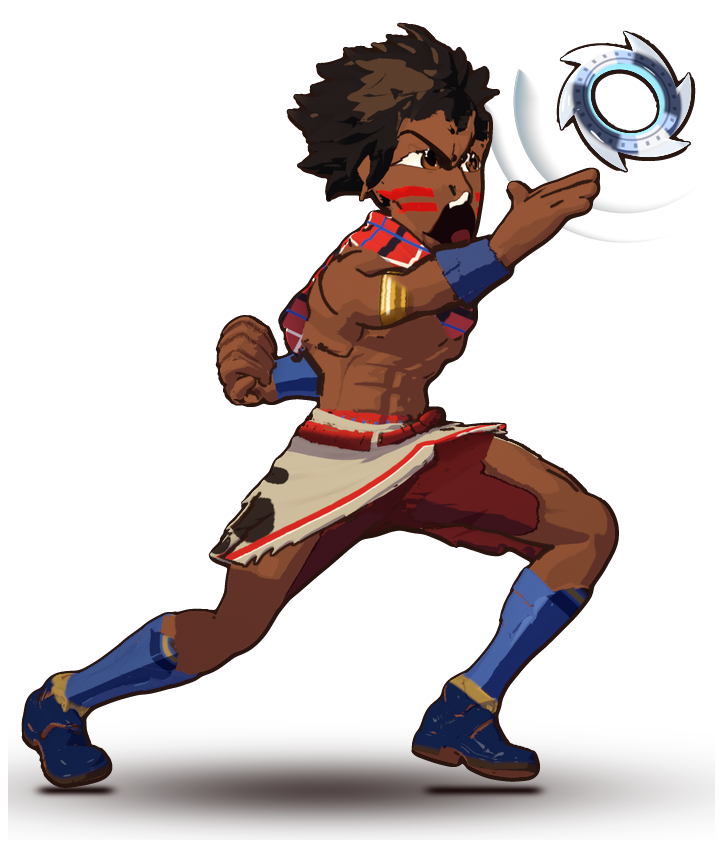
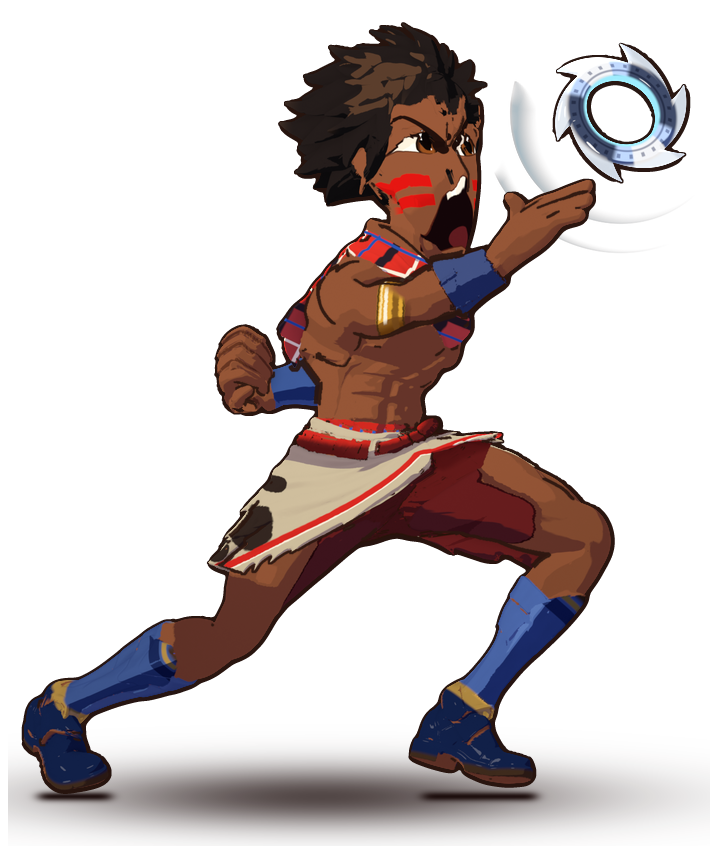
Hero key art k52 (won its A/B against k50 with both blind judges, by toss-ups): the sun slides left so clear sky separates it from the hair, and the chakram's spin arcs fade out before they reach the back of the head, removing two tangents at the focal point. The neck bone is longer, the top of the 

diff --git a/New/tools/art/blender/hero_render.py b/New/tools/art/blender/hero_render.py
@@ -942,6 +942,10 @@ THROW_RING = float(os.environ.get("THROW_RING", "0.19"))  ## (key art k10: 0.14,
 ## keeps it inside its left two fifths, where the close-ups are cut)
 
 
+## (key art k51, judge 2 of k50: "no neck, the jaw sits directly on the red plaid shawl: a bobblehead") a short neck column
+NECK_LEN = float(os.environ.get("NECK_LEN", "1.75"))  ## the neck bone's length scale (k31-k50: 1.3): his head rises clear of the shawl
+NECK_COLLAR_Z = float(os.environ.get("NECK_COLLAR_Z", "0.315"))  ## (rest height) the shawl's collar above this is his neck and
+## trapezius in the title screen (the shawl sits lower); 1: off
 KEY_BUILD = {  # (key art k9, "a stringy, narrow torso and thin upper arms against heavy thighs and big boots") the key
     # art's build: bone scales across the bone (x, z; y runs along it), the children not inheriting them
     # (key art k31, "narrow shoulders barely wider than the head plus hair, a short narrow torso, a pinched waist, very long
@@ -950,7 +954,7 @@ KEY_BUILD = {  # (key art k9, "a stringy, narrow torso and thin upper arms again
     # longer (the throwing side's thicker too: on the fist side a thicker one pushed a jagged edge into the silhouette),
     # thicker forearms; the hands, head, pose and costume unchanged
     # (k9-k30: "Spine1": (1.12, 1.0, 1.05), "Spine2": (1.26, 1.0, 1.1), "Neck": (1.18, 1.0, 1.18), forearms (1.1, 1.0, 1.1))
-    "Spine": (1.15, 1.06, 1.08), "Spine1": (1.35, 1.06, 1.18), "Spine2": (1.5, 1.06, 1.25), "Neck": (1.5, 1.3, 1.4),
+    "Spine": (1.15, 1.06, 1.08), "Spine1": (1.35, 1.06, 1.18), "Spine2": (1.5, 1.06, 1.25), "Neck": (1.5, NECK_LEN, 1.4),
     "LeftShoulder": (1.0, 1.35, 1.0), "RightShoulder": (1.25, 1.6, 1.25),
     # (key art k32, "the armlet a flat vertical gold rectangle stuck on the bicep like a plaster": the upper arms back to their own
     # thickness (k31 1.2), which keeps k27's curved band; the forearms a little thicker than k27's (k31 1.32: swollen against them))
@@ -1078,11 +1082,47 @@ ARM_ANGLE = float(os.environ.get("ARM_ANGLE", "15.5")) if os.environ.get("ARM_AN
 ## throwing arm rises in the picture after the lean (k48: about 12)
 BACK_ANGLE = float(os.environ.get("BACK_ANGLE", "210")) if os.environ.get("BACK_ANGLE", "210") != "off" else None  ## (k50)
 ## the back arm's angle in the picture, shoulder to fist (k49 swung it up behind his head: "the back fist crowds the hair")
+## (key art k51, both judges of k50) the release: judge 2 "the palm turned up reads as a waiter carrying a tray, catching not
+## throwing: rotate the palm forward and down, fingers spread toward the target, a release follow-through"; judge 1 "the
+## chakram floats away from an open flat palm: put it at the fingertips with a motion arc" (the smear: tools/art/hero_atlas.py)
+RELEASE_ROLL = float(os.environ.get("RELEASE_ROLL", "0"))  ## degrees the throwing hand rolls round its own length (its open
+## palm from up to forward and down; the hand's shape unchanged); 0: k50 (k51 60: "a huge splayed paw, a stop gesture", lost)
+## (k52: with k50's palm-up hand the ring at 0.13 m from the fingertips looked held up on the palm: RING_GAP back to k50's 0.19
+## (from the hand's end) and no smear)
+RELEASE_FLEX = float(os.environ.get("RELEASE_FLEX", "0"))  ## and its wrist flicks down toward the throw (round the view axis)
+## (key art k52, both judges of k51 on k50: "the head pushed forward and down into the shawl, the neck disappears, the chin
+## buried"; "keep the lean in the spine and lift the chin so the face reads in three-quarter view"; judge 1: "the raised
+## throwing upper arm runs right under the jaw: chin, open mouth and arm one knot") his head pitched up round its own
+## side-to-side axis, the face to three-quarters, a skin column between the jaw and the shawl
+CHIN_LIFT = float(os.environ.get("CHIN_LIFT", "-12"))  ## degrees round the head's local x (negative lifts the chin here; 0: k50/k51)
+RING_GAP = float(os.environ.get("RING_GAP", "0.19"))  ## metres the ring has flown from his fingertips (k10-k50: 0.19 from the hand)
 ARM_KEEP = os.environ.get("ARM_KEEP", "1") == "1"  ## (k50) the throwing arm keeps its k48 orientation through the lean
 PUSH_SLIDE = float(os.environ.get("PUSH_SLIDE", "0.044"))  ## (k50) at most this far (metres) the back foot slides back (k49
 ## 0.087: "a stiff fencing lunge, the feet very far apart")
 PUSH_EXT = float(os.environ.get("PUSH_EXT", "0.95"))  ## the back leg's reach, a share of its length (a straight push-off)
 PUSH_HEEL = float(os.environ.get("PUSH_HEEL", "0.72"))  ## and its heel's lift (k48: 0.55)
+
+
+def _roll(bone, deg):
+    """Rolls a bone round its own length (the axis along it, not a world one); its children with it."""
+    pb = ARM.pose.bones[P + bone]
+    m = pb.matrix.copy()
+    r = Matrix.Rotation(math.radians(deg), 3, m.to_3x3().col[1].normalized())
+    new = (r @ m.to_3x3()).to_4x4()
+    new.translation = m.translation
+    pb.matrix = new
+    bpy.context.view_layer.update()
+
+
+def _pitch(bone, deg):
+    """Turns a bone round its own side-to-side axis (its local x), its children with it."""
+    pb = ARM.pose.bones[P + bone]
+    m = pb.matrix.copy()
+    r = Matrix.Rotation(math.radians(deg), 3, m.to_3x3().col[0].normalized())
+    new = (r @ m.to_3x3()).to_4x4()
+    new.translation = m.translation
+    pb.matrix = new
+    bpy.context.view_layer.update()
 
 
 def _push_off(side, ext, k, slide=1.0):
@@ -1174,6 +1214,12 @@ def pose_key_throw():
             now = now - 360.0 if now > 180.0 else now
             turn("RightArm", ARM_ANGLE - now, tuple(view))
             print("KEY_ARM rose %.1f -> %.1f deg" % (now, ARM_ANGLE))
+        if CHIN_LIFT:  # (k52) the chin lifted out of the shawl: the face to three-quarters
+            _pitch("Head", CHIN_LIFT)
+        if RELEASE_ROLL:  # (k51) the open palm turned forward and down, the wrist flicked toward the throw
+            _roll("RightHand", RELEASE_ROLL)
+        if RELEASE_FLEX:
+            turn("RightHand", RELEASE_FLEX, tuple(view))
         if BACK_ANGLE is not None:  # (k50) the back fist low and behind his chest, clear of his hair and face: its arm
             # turned round the view axis to BACK_ANGLE in the picture (180: straight back, more: lower)
             now = ang("LeftArm", "LeftHand")
@@ -1183,7 +1229,11 @@ def pose_key_throw():
     ring = bpy.data.objects.get("AAA_Chakram")
     if ring is not None:  # the ring well ahead of the hand on the throw's line
         fore = (bone_world("RightHand", "tail") - bone_world("RightForeArm")).normalized()
-        at = bone_world("RightHand", "tail") + (fore * 0.8 + Vector((0.0, 0.0, 0.45))).normalized() * THROW_RING
+        tips = bone_world("RightHandMiddle4") if (P + "RightHandMiddle4") in ARM.pose.bones else bone_world("RightHand", "tail")
+        if RING_GAP < THROW_RING:  # (k51) the ring just off his fingertips, on the throw's line
+            at = tips + (fore * 0.8 + Vector((0.0, 0.0, 0.45))).normalized() * RING_GAP
+        else:
+            at = bone_world("RightHand", "tail") + (fore * 0.8 + Vector((0.0, 0.0, 0.45))).normalized() * THROW_RING
         # (round 16) its blades turned to us (edge-on it read as a thin ring), tipped a little up the throw
         face = Vector((0.3, -1.0, 0.35)).normalized()
         rot = Vector((0.0, 0.0, 1.0)).rotation_difference(face).to_matrix().to_4x4()
@@ -1194,6 +1244,7 @@ def pose_key_throw():
     key_hair_normals()
     key_fringe()
     key_strip()
+    key_neck()
     key_blue_normals()
 
 
@@ -2454,7 +2505,8 @@ def toon_setup():
 # ------------------------------------------------------------------ render
 
 POINTS = {"hips": ("Hips", "head"), "head": ("HeadTop_End", "head"), "toe_r": ("RightToe_End", "head"),
-          "toe_l": ("LeftToe_End", "head"), "hand_r": ("RightHand", "head"), "hand_l": ("LeftHand", "head")}
+          "toe_l": ("LeftToe_End", "head"), "hand_r": ("RightHand", "head"), "hand_l": ("LeftHand", "head"),
+          "tips_r": ("RightHandMiddle4", "head")}  ## (key art k51: where the release smear starts)
 
 
 def points(cam):
@@ -2798,6 +2850,32 @@ def key_blue_normals():
         me.update()
         print("KEY_BLUE", ob.name, int(on.sum()))
     bpy.context.view_layer.update()
+
+
+def key_neck():
+    """(Key art k51, judge 2 of k50: "no neck, the jaw sits directly on the red plaid shawl: a bobblehead") the shawl's collar
+    round his neck and over his trapezius (above NECK_COLLAR_Z, rest) is his skin in the title screen, so a neck column and the
+    trapezius slope show above the cloth: the shawl sits lower. Undone after the picture; the user's file unchanged."""
+    if not (AAA and arg("--light", "day") == "sunset") or NECK_COLLAR_Z >= 1.0:
+        return
+    me = MESH.data
+    names = [m.name if m else "" for m in me.materials]
+    if "AAA_scarf" not in names or "AAA_skin" not in names:
+        return
+    n = len(me.vertices)
+    mi = np.zeros(len(me.polygons), np.int64); me.polygons.foreach_get("material_index", mi)
+    lt = np.zeros(len(me.polygons), np.int64); me.polygons.foreach_get("loop_total", lt)
+    ls = np.zeros(len(me.polygons), np.int64); me.polygons.foreach_get("loop_start", ls)
+    lv = np.zeros(len(me.loops), np.int64); me.loops.foreach_get("vertex_index", lv)
+    rc = np.zeros(n * 3, np.float32); me.attributes["rest_co"].data.foreach_get("vector", rc); rc = rc.reshape(-1, 3)
+    cen = np.add.reduceat(rc[lv], ls) / lt[:, None]
+    sel = np.nonzero((mi == names.index("AAA_scarf")) & (cen[:, 2] > NECK_COLLAR_Z))[0]
+    _FRINGE_UNDO.append((sel, mi[sel].copy()))
+    mi[sel] = names.index("AAA_skin")
+    me.polygons.foreach_set("material_index", mi)
+    me.update()
+    bpy.context.view_layer.update()
+    print("KEY_NECK", len(sel), "polygons of collar to skin")
 
 
 def key_fringe_undo():

diff --git a/New/tools/art/hero_atlas.py b/New/tools/art/hero_atlas.py
@@ -454,6 +454,10 @@ def throw_trail(folder: Path) -> np.ndarray:
     return out
 
 
+ARC_HAIR_CLEAR = float(os.environ.get("ARC_HAIR_CLEAR", "45"))  ## (key art k52, judge 1 of k50: "the chakram's motion arcs touch the
+## back of the hair") render px the spin arcs keep clear of his hair (they fade out before it); 0: k10-k51
+
+
 def swoosh_trail(folder: Path) -> np.ndarray:
     """(Key art k9, "a flat translucent cyan shard: a rendering glitch") the throw's trail as two spin arcs hugging the
     ring's trailing side: each a curved, tapered stroke, its outer (leading) edge a crisp white-hot line, the light
@@ -467,6 +471,12 @@ def swoosh_trail(folder: Path) -> np.ndarray:
     back = np.arctan2(-d[1], -d[0])  # the side it came from
     h, w = src.shape[:2]
     out = np.zeros((h, w, 4), np.float32)
+    hair_clear = None
+    dp = folder / "000_depth.npz"
+    if ARC_HAIR_CLEAR > 0 and dp.exists():  # (key art k52) a fade to nothing within ARC_HAIR_CLEAR px of his hair
+        hair = np.load(dp)["id"] == 1
+        dist = ndimage.distance_transform_edt(~hair)
+        hair_clear = np.clip((dist - ARC_HAIR_CLEAR) / (ARC_HAIR_CLEAR * 0.5), 0.0, 1.0).astype(np.float32)
     for rk, wk, span, ak in ((1.28, 0.36, 150.0, 1.0), (1.62, 0.2, 110.0, 0.8)):
         th = np.radians(np.linspace(-span * 0.55, span * 0.45, 500)) + back  # tail (k 0) to head (k 1)
         curve = centre + rk * radius * np.stack([np.cos(th), np.sin(th)], -1)
@@ -493,11 +503,77 @@ def swoosh_trail(folder: Path) -> np.ndarray:
         a = np.maximum(a * 0.72, edge * 0.98).reshape(yy.shape) * ak
         hot = edge.reshape(yy.shape)
         a *= np.clip((np.hypot(xx - centre[0], yy - centre[1]) - radius * 0.98) / 3.0, 0.0, 1.0)
+        if hair_clear is not None:  # (key art k52) the arcs off his hair: "the motion arcs touch the back of the hair"
+            a *= hair_clear[y0:y1, x0:x1]
         rgb = TRAIL + (np.array([0.95, 0.99, 1.0]) - TRAIL) * np.clip(hot * 1.2, 0, 1)[..., None]
         old = out[y0:y1, x0:x1]
         al = a + old[..., 3] * (1.0 - a)
         old[..., :3] = (rgb * a[..., None] + old[..., :3] * old[..., 3:4] * (1.0 - a[..., None])) / np.maximum(al, 1e-4)[..., None]
         old[..., 3] = al
+    return out
+
+
+## (key art k51, judge 1 of k50: "the chakram floats away from an open flat palm: put it at the fingertips with a motion arc")
+## a thin tapered smear from his fingertips to the ring, along a shallow arc: faint and hair-thin at the fingers, a little
+## wider and stronger where it meets the ring; a pale cool tint well under the face's value (never a glow)
+SMEAR_ALPHA = float(os.environ.get("SMEAR_ALPHA", "0"))  ## its strongest opacity (0: none, k50 and k52; k51 0.38)
+SMEAR_W = (1.5, 9.0)  ## render px half-width at the fingertips and at the ring
+SMEAR_BOW = 0.06  ## how far the arc bows up, a share of its length
+SMEAR_RGB = np.array([0.98, 0.93, 0.84])  ## (a pale warm cream, under the alpha: a little lighter than the sky, never a glow)
+
+
+def release_smear(folder: Path) -> np.ndarray:
+    src = np.asarray(Image.open(folder / "000.png"))
+    h, w = src.shape[:2]
+    out = np.zeros((h, w, 4), np.float32)
+    frame = json.loads((folder / "points.json").read_text())["frames"][0]
+    if SMEAR_ALPHA <= 0.0 or "tips_r" not in frame:
+        return out
+    from scipy.spatial import cKDTree
+    tips = np.array(frame["tips_r"], np.float64)
+    centre, radius, _ = _ring(folder)
+    dp = folder / "000_depth.npz"
+    if dp.exists():  # (the fingertip as drawn: the body's pixel near his hand closest to the ring)
+        z = np.load(dp)
+        body = z["a"] & (z["id"] == 0)
+        ys_, xs_ = np.nonzero(body)
+        near = np.hypot(xs_ - tips[0], ys_ - tips[1]) < h * 0.08
+        if near.any():
+            dd = np.hypot(xs_[near] - centre[0], ys_[near] - centre[1])
+            j = int(np.argmin(dd))
+            tips = np.array([xs_[near][j], ys_[near][j]], np.float64)
+    d = centre - tips
+    ln = np.hypot(*d)
+    end = centre - d / max(ln, 1e-6) * radius * 0.9  # (to the ring's rim, not its hole)
+    mid = (tips + end) / 2.0 + np.array([d[1], -d[0]]) / max(ln, 1e-6) * ln * SMEAR_BOW * (1 if d[0] >= 0 else -1)
+    t = np.linspace(0.0, 1.0, 400)[:, None]
+    curve = (1 - t) ** 2 * tips + 2 * (1 - t) * t * mid + t ** 2 * end
+    lo = np.floor(curve.min(0) - SMEAR_W[1] - 3).astype(int).clip(0)
+    hi = np.ceil(curve.max(0) + SMEAR_W[1] + 3).astype(int)
+    x0, y0 = lo
+    x1, y1 = min(hi[0], w), min(hi[1], h)
+    yy, xx = np.mgrid[y0:y1, x0:x1]
+    pix = np.stack([xx.ravel(), yy.ravel()], -1).astype(np.float64)
+    dist, i = cKDTree(curve).query(pix)
+    k = i / (len(curve) - 1)
+    width = SMEAR_W[0] + (SMEAR_W[1] - SMEAR_W[0]) * k
+    across = np.clip((width + 1.0 - dist) / 2.0, 0.0, 1.0)  # (crisp, a pixel of softening)
+    along = np.clip(k / 0.15, 0.0, 1.0) * (0.35 + 0.65 * k)  # (from nothing at the fingers to its strongest at the ring)
+    a = (across * along * SMEAR_ALPHA).reshape(yy.shape)
+    a *= np.clip((np.hypot(xx - centre[0], yy - centre[1]) - radius * 0.98) / 3.0, 0.0, 1.0)  # (never over the ring)
+    out[y0:y1, x0:x1, :3] = SMEAR_RGB
+    out[y0:y1, x0:x1, 3] = a
+    return out
+
+
+def menu_trail(folder: Path) -> np.ndarray:
+    """The throw's trail under the menu's hero: the spin arcs round the ring, and (k51) the release smear."""
+    out = swoosh_trail(folder)
+    sm = release_smear(folder)
+    a = sm[..., 3:4]
+    al = a[..., 0] + out[..., 3] * (1.0 - a[..., 0])
+    out[..., :3] = (sm[..., :3] * a + out[..., :3] * out[..., 3:4] * (1.0 - a)) / np.maximum(al, 1e-4)[..., None]
+    out[..., 3] = al
     return out
 
 
@@ -609,7 +685,7 @@ def pictures() -> None:
     # a wide pose: as many pixels as an upright one, its ink drawn at that size (round 11: reduced after inking,
     # the line went soft and uneven)
     k = min((MENU_PIXELS / (hero.shape[0] * hero.shape[1])) ** 0.5, 1.0)
-    menu = trimmed(ui / "menu_hero/000.png", int(round(1100 * k)), sunset=True, under=swoosh_trail(ui / "menu_hero"),
+    menu = trimmed(ui / "menu_hero/000.png", int(round(1100 * k)), sunset=True, under=menu_trail(ui / "menu_hero"),
                    over=inner_lines(ui / "menu_hero"), ink_k=MENU_INK, clean=True, ink_lit=MENU_INK_LIT, ink_mix=0.85,
                    ink_colour=MENU_INK_COLOUR, ink_calm=MENU_INK_CALM, ink_strand=MENU_INK_STRAND)
     # (key art k36) the outer line: dark warm brown, a touch thinner, thinner still on the lit side, calm round the hem, boots,
